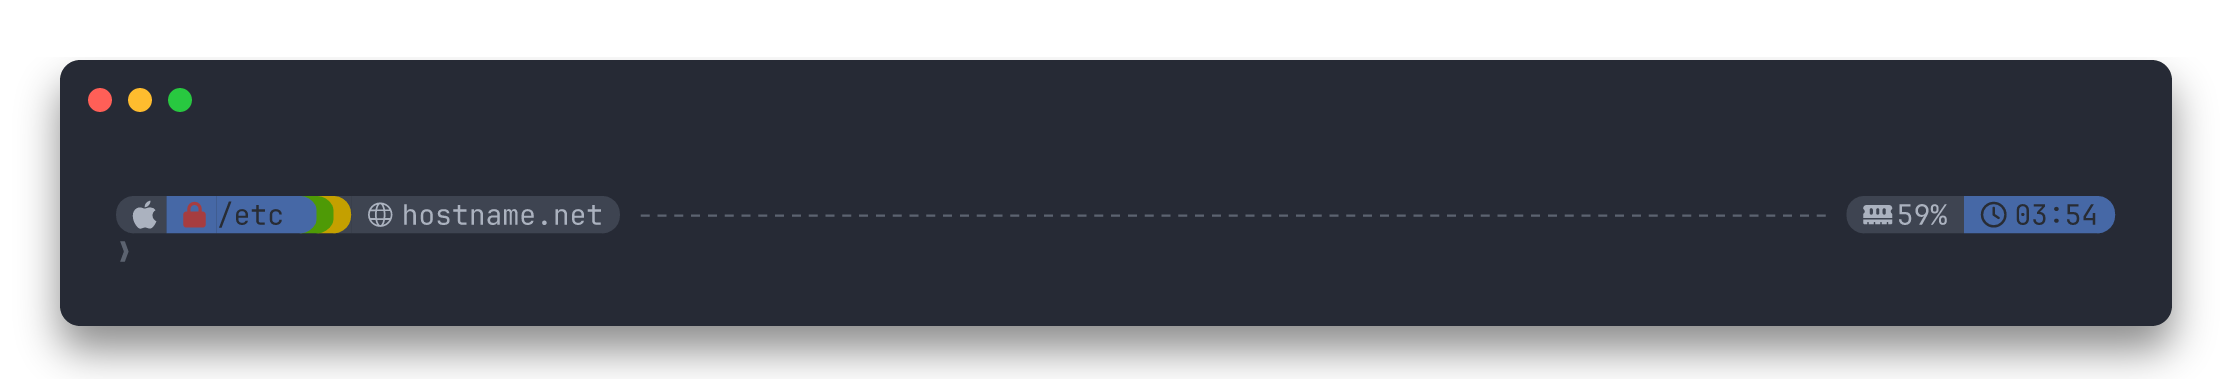
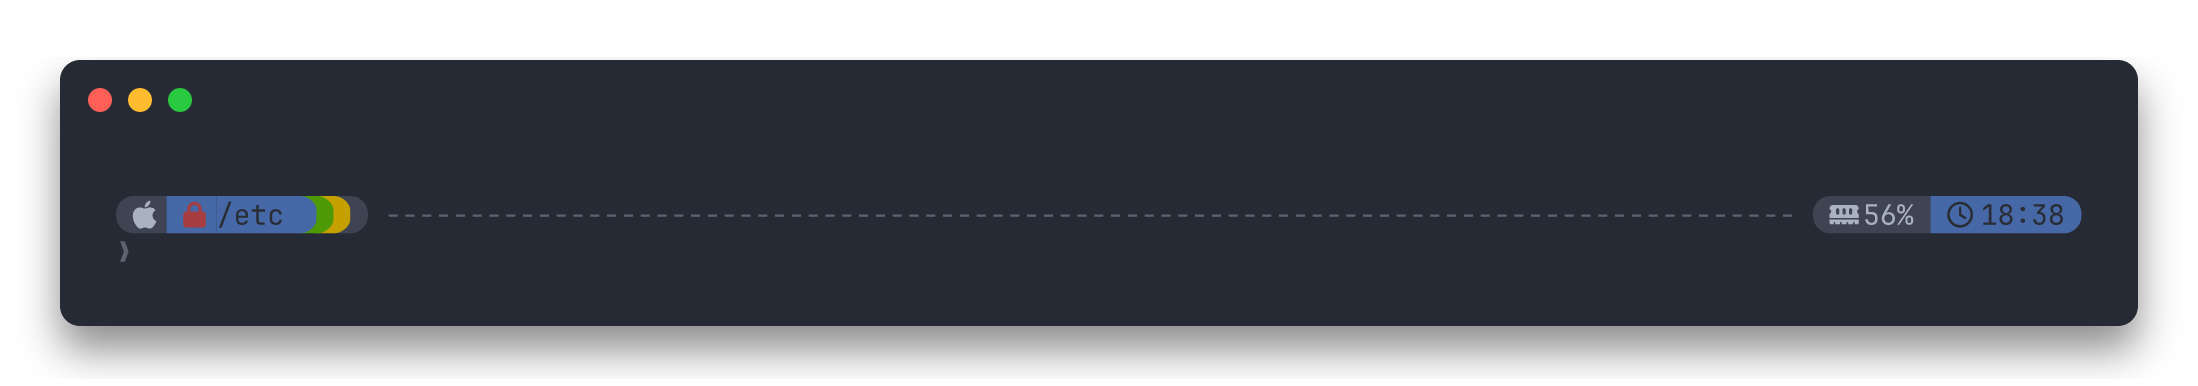
docs(screenshots): capture SSH and root from a real server
- The ssh and root states come from an SSH session to a throwaway Ubuntu container
- Regenerated every image for the SSH-only hostname and its globe icon

Changed region(s): [[0.0619, 0.4974, 0.3403, 0.6218], [0.6497, 0.5285, 0.9591, 0.5907], [0.0309, 0.2176, 0.0928, 0.2798]]

diff --git a/README.md b/README.md
@@ -10,7 +10,7 @@ A clean and professional Starship prompt theme inspired by Powerlevel10k, featur
 
 ---
 
-**Stack**: [Starship](https://starship.rs/) config (`starship.toml`) · Nerd Font glyphs · taplo, Starship and lychee checks in GitHub Actions
+**Stack**: [Starship](https://starship.rs/) config (`starship.toml`) · Nerd Font glyphs · taplo, Starship and lychee checks, and prompt tests on macOS, Linux and Windows, in GitHub Actions
 
 ## Preview
 
@@ -24,7 +24,11 @@ A clean and professional Starship prompt theme inspired by Powerlevel10k, featur
 
 ### SSH session
 ![SSH](screenshots/starship-theme-brei0x-ssh.png)
-*The username (also shown for root) and the hostname only appear over SSH.*
+*Over SSH the username and the hostname appear (here a real session to an Ubuntu server).*
+
+### Root
+![Root](screenshots/starship-theme-brei0x-root.png)
+*Root, or an elevated Windows shell, turns the username red, even without SSH.*
 
 ### Read-only directory
 ![Read-only](screenshots/starship-theme-brei0x-read-only.png)
